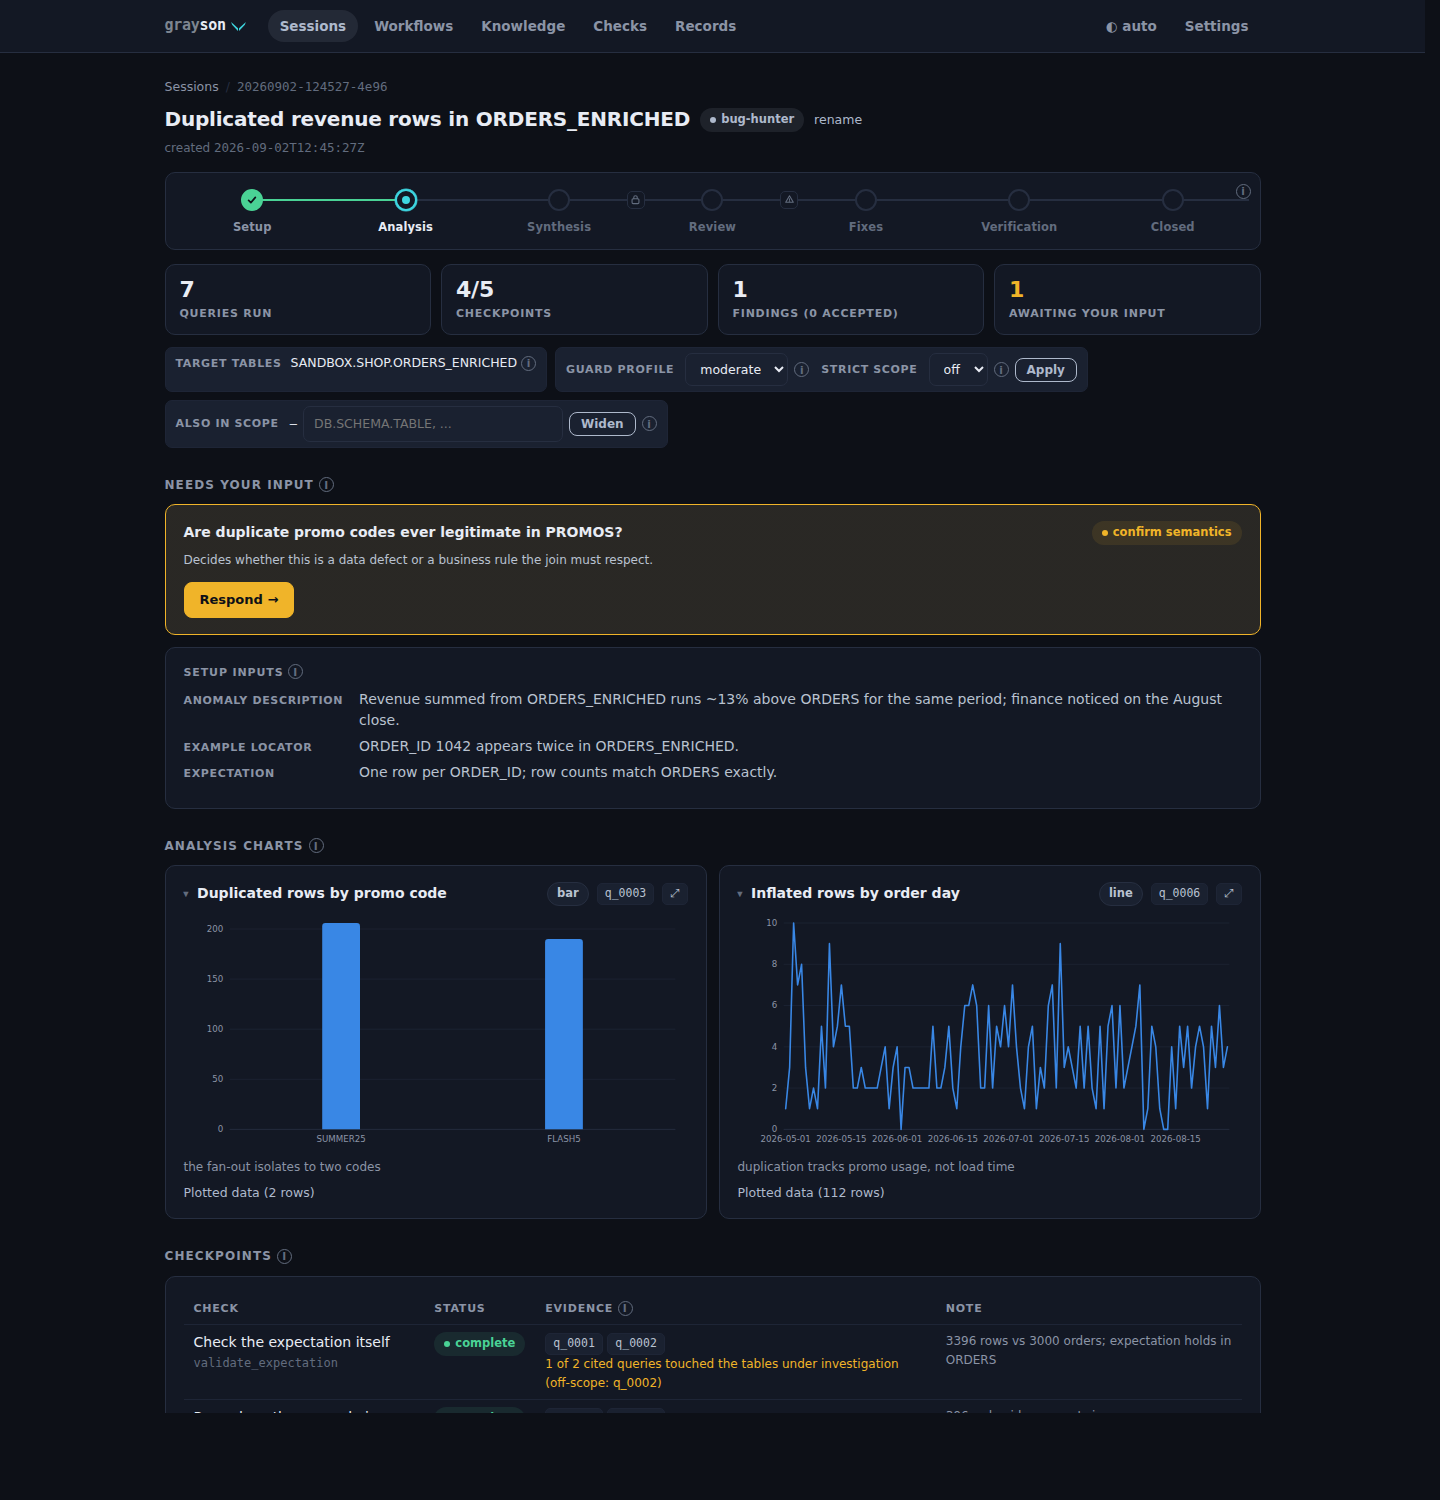
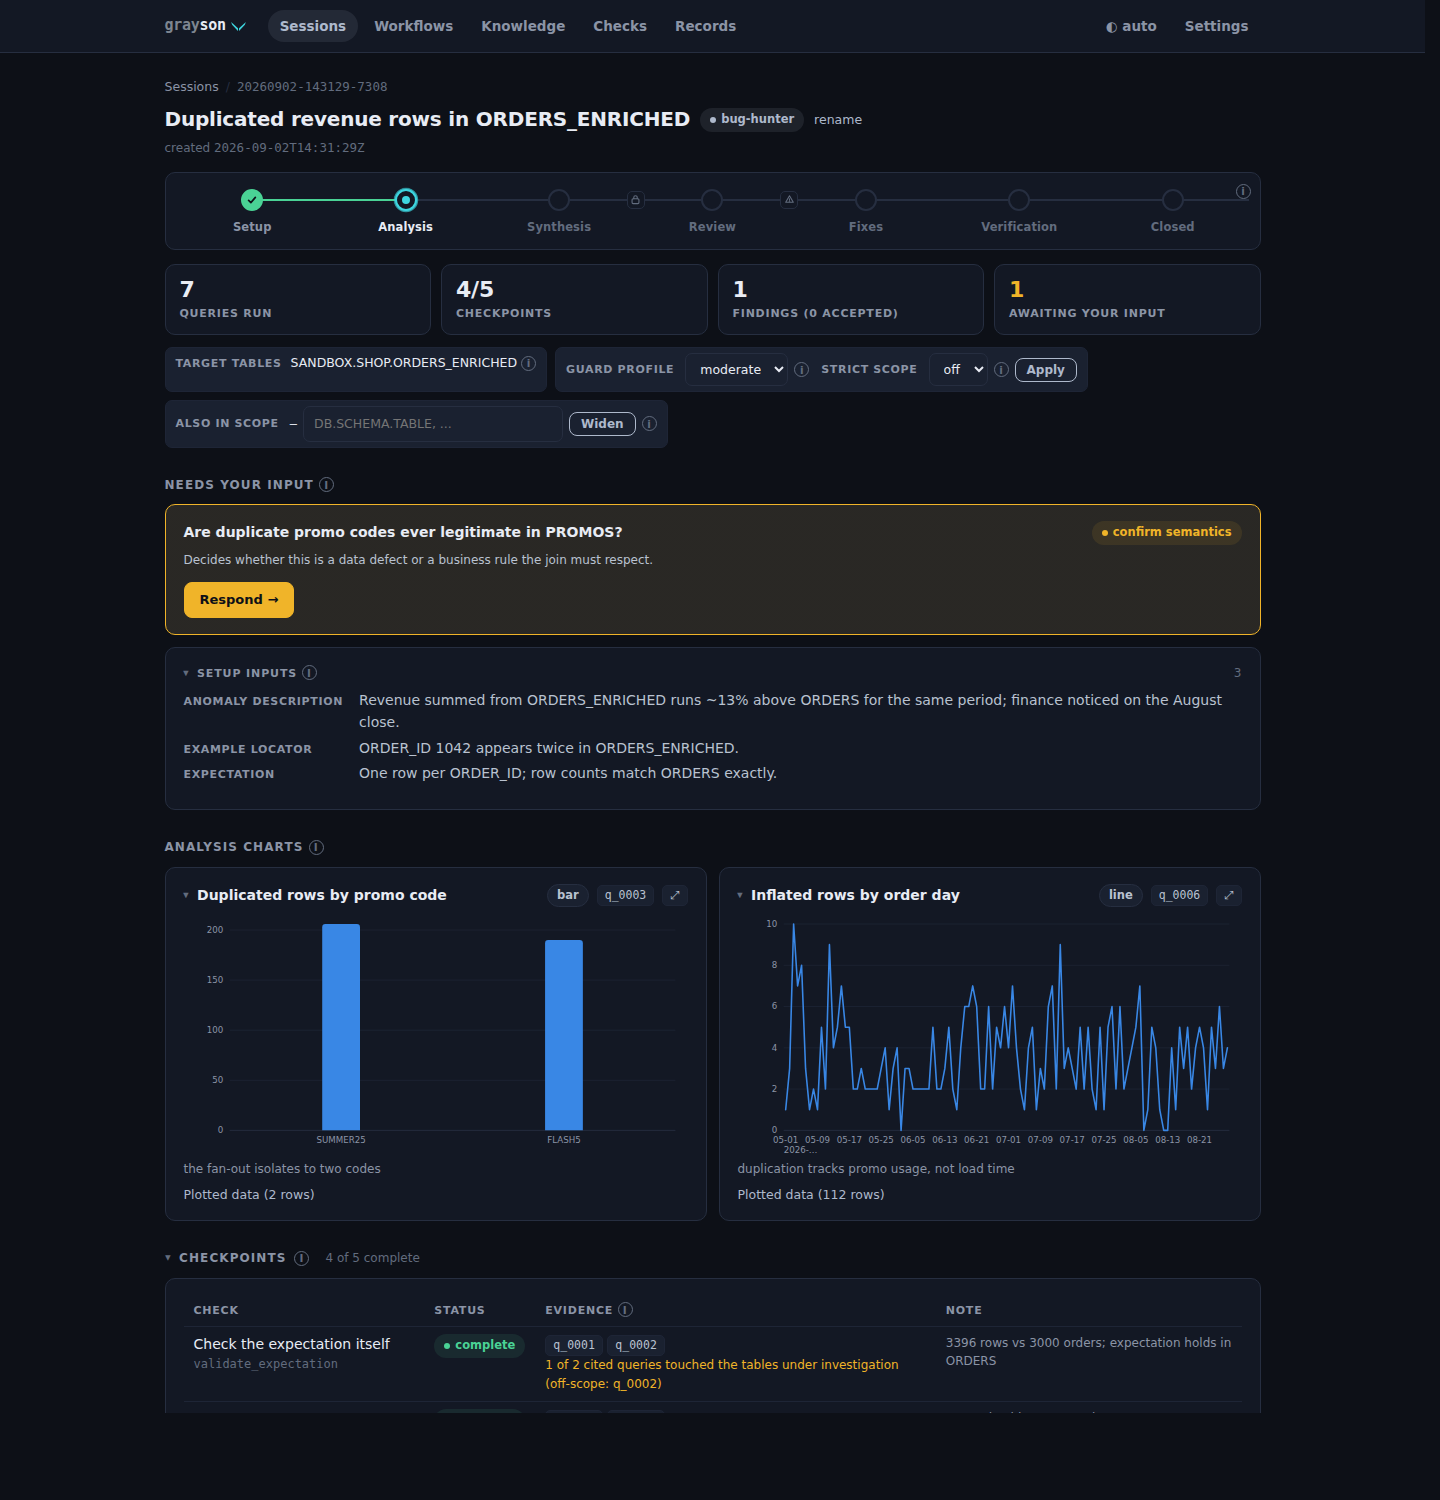
Session page: one action bar, folding sections, tiles that navigate
The four stacked folds at the foot of the session page (close, abandon,
set stage, delete) become one card with a segmented row of tabs. Every
option is visible at once and none is open until the user picks it; the
picked panel keeps the same form, confirmation prompt and gates as
before, and the pick is remembered across the live refresh. Idle, the
bar is about a quarter of the height the folds took.

Setup inputs and the checkpoints section fold at their headings, with
the fold remembered per session like the chart and finding tiles.

The stat tiles link to what they count: queries run to the query log,
checkpoints, findings and awaiting-your-input to their sections. A jump
unfolds a collapsed target (or any collapsed ancestor) first, scrolls
it clear of the sticky header and lights it briefly. The hash is not
kept, so the live refresh does not jump back; the same handler now
serves the "superseded by" links between findings.

Claude-Session: https://claude.ai/code/session_01TptRa2r119ZPVfkNQba6Qv

diff --git a/src/grayson/ui/templates/base.html b/src/grayson/ui/templates/base.html
@@ -124,17 +124,29 @@ a.card:hover { text-decoration: none; border-color: var(--muted); transform: tra
   grid-template-columns: repeat(auto-fill, minmax(400px, 1fr)); }
 /* a lone chart stays a tile, not a banner */
 .chartcard { margin-bottom: 0; max-width: 640px; }
-details.chartcard > summary.chartsum, details.findcard > summary.chartsum {
+details.chartcard > summary.chartsum, details.findcard > summary.chartsum,
+details.foldcard > summary.chartsum {
   cursor: pointer; list-style: none;
   display: flex; align-items: center; gap: 8px; user-select: none; flex-wrap: wrap; }
 details.chartcard > summary.chartsum::-webkit-details-marker,
-details.findcard > summary.chartsum::-webkit-details-marker { display: none; }
+details.findcard > summary.chartsum::-webkit-details-marker,
+details.foldcard > summary.chartsum::-webkit-details-marker { display: none; }
 .chartsum .c-caret { color: var(--faint); font-size: 11px; flex: none;
   transition: transform .15s; }
 details.chartcard[open] > .chartsum .c-caret,
-details.findcard[open] > .chartsum .c-caret { transform: rotate(90deg); }
-details.chartcard:not([open]):hover, details.findcard:not([open]):hover {
-  border-color: var(--muted); }
+details.findcard[open] > .chartsum .c-caret,
+details.foldcard[open] > .chartsum .c-caret { transform: rotate(90deg); }
+details.chartcard:not([open]):hover, details.findcard:not([open]):hover,
+details.foldcard:not([open]):hover { border-color: var(--muted); }
+/* a whole section folds at its heading: the h2 is the summary */
+details.section > summary { list-style: none; cursor: pointer; user-select: none; }
+details.section > summary::-webkit-details-marker { display: none; }
+details.section > summary > h2 { display: flex; align-items: center; gap: 8px; }
+details.section > summary > h2::before { content: "▸"; color: var(--faint);
+  font-size: 11px; transition: transform .15s; }
+details.section[open] > summary > h2::before { transform: rotate(90deg); }
+details.section > summary:hover > h2 { color: var(--ink); }
+details.section:not([open]) { margin-bottom: 12px; }
 details.findcard.superseded { opacity: .62; }
 details.findcard.superseded[open] { opacity: .85; }
 @keyframes chart-in {
@@ -157,6 +169,22 @@ details.findcard.superseded[open] { opacity: .85; }
 .tile .num.attn { color: var(--attn); } .tile .num.ok { color: var(--ok); }
 .tile .lbl { font-size: 11px; font-weight: 600; color: var(--muted);
   text-transform: uppercase; letter-spacing: .07em; margin-top: 2px; }
+/* a tile that counts a section is a link to it */
+a.tile { color: inherit; display: block; position: relative;
+  transition: border-color .15s, transform .15s, box-shadow .15s; }
+a.tile:hover, a.tile:focus-visible { text-decoration: none; border-color: var(--muted);
+  transform: translateY(-1px); box-shadow: 0 6px 18px rgba(0, 0, 0, .10); }
+a.tile::after { content: "↓"; position: absolute; top: 10px; right: 12px;
+  color: var(--faint); font-size: 12px; opacity: 0; transition: opacity .15s; }
+a.tile:hover::after, a.tile:focus-visible::after { opacity: 1; }
+/* the landing spot of an in-page jump: clear of the sticky header, and lit
+   for a moment so the eye finds it */
+h2[id], details[id], .card[id] { scroll-margin-top: 66px; }
+.spot { animation: spot 1.6s ease-out; border-radius: var(--radius); }
+@keyframes spot {
+  0%, 40% { outline: 2px solid var(--act); outline-offset: 6px; }
+  100% { outline: 2px solid transparent; outline-offset: 6px; }
+}
 
 /* ---- badges ---------------------------------------------------------- */
 .badge { display: inline-flex; align-items: center; gap: 5px; padding: 2px 9px;
@@ -226,6 +254,28 @@ details.fold > summary:hover { color: var(--ink); }
 details.fold > .fold-body { padding: 2px 18px 14px; border-top: 1px solid var(--border-soft); }
 details.inlinefold > summary { cursor: pointer; color: var(--act); font-size: 12.5px;
   list-style: none; user-select: none; }
+
+/* ---- session action bar ------------------------------------------------
+   Every way a session ends (or is moved by hand) sits on one row as a tab.
+   Nothing is hidden and nothing is open until the user picks one; the picked
+   panel carries the form, its confirmation and its gates. */
+.actions { padding: 12px 18px; }
+.actionhead { gap: 12px; align-items: center; flex-wrap: wrap; }
+.seg { display: inline-flex; border: 1px solid var(--border); border-radius: 8px;
+  background: var(--panel2); padding: 2px; gap: 2px; position: relative; }
+.seg .seg-r { position: absolute; opacity: 0; width: 0; height: 0; pointer-events: none; }
+.seg-b { padding: 4px 12px; border-radius: 6px; font-size: 12.5px; font-weight: 600;
+  color: var(--muted); cursor: pointer; user-select: none;
+  transition: background .12s, color .12s, box-shadow .12s; }
+.seg-b:hover { color: var(--ink); }
+.seg-b.on { background: var(--panel); color: var(--act); box-shadow: 0 1px 2px rgba(0, 0, 0, .12); }
+.seg-b.danger:hover, .seg-b.danger.on { color: var(--bad); }
+.seg .seg-r:focus-visible + .seg-b { outline: 2px solid var(--act); outline-offset: 1px; }
+.seg-cancel { margin-left: auto; }
+.seg-cancel[hidden], .seg-hint[hidden] { display: none; }
+.actpanel { border-top: 1px solid var(--border-soft); margin-top: 12px; padding-top: 10px;
+  animation: fade-down .2s ease-out both; }
+.acttitle { font-weight: 600; font-size: 13px; color: var(--ink-2); }
 details.inlinefold > summary::-webkit-details-marker { display: none; }
 details.opening > :not(summary) { animation: fade-down .2s ease-out both; }
 @keyframes fade-down { from { opacity: 0; transform: translateY(-4px); } }
@@ -632,9 +682,9 @@ document.addEventListener("toggle", function (e) {
   }
 })();
 
-/* Collapsible tiles (charts, findings): the server opens the newest few; a
-   manual toggle is remembered per tile so the 10s live refresh doesn't fight
-   the user. */
+/* Collapsible tiles (charts, findings, sections): the server opens the newest
+   few; a manual toggle is remembered per tile so the 10s live refresh doesn't
+   fight the user. */
 (function () {
   var cards = document.querySelectorAll("details[data-fold]");
   if (!cards.length) return;
@@ -650,6 +700,72 @@ document.addEventListener("toggle", function (e) {
     });
   });
 })();
+/* In-page jumps (the stat tiles, "superseded by" links): the target unfolds
+   first if it or any ancestor is collapsed, then the page scrolls to it and
+   lights it for a moment. The hash is not kept, so the live refresh does not
+   jump back; a hash arriving from outside is honoured once, then dropped. */
+(function () {
+  function unfold(el) {
+    for (var d = el.closest("details"); d; d = d.parentElement && d.parentElement.closest("details")) {
+      if (!d.open) d.open = true;
+    }
+  }
+  function spot(el) {
+    el.classList.remove("spot"); void el.offsetWidth; el.classList.add("spot");
+    setTimeout(function () { el.classList.remove("spot"); }, 1700);
+  }
+  function jump(id) {
+    var el = id && document.getElementById(id);
+    if (!el) return false;
+    unfold(el);
+    el.scrollIntoView({ behavior: "smooth", block: "start" });
+    spot(el);
+    return true;
+  }
+  document.addEventListener("click", function (e) {
+    var a = e.target.closest && e.target.closest('a[href^="#"]');
+    if (!a || a.getAttribute("href").length < 2) return;
+    if (jump(decodeURIComponent(a.getAttribute("href").slice(1)))) e.preventDefault();
+  });
+  if (location.hash.length > 1) {
+    var el = document.getElementById(decodeURIComponent(location.hash.slice(1)));
+    if (el) { unfold(el); spot(el); }
+    if (history.replaceState) history.replaceState(null, "", location.pathname + location.search);
+  }
+})();
+
+/* Session action bar: the picked tab shows its panel; the pick is remembered
+   per page so the live refresh brings the same panel back. */
+(function () {
+  var bar = document.querySelector(".actions");
+  if (!bar) return;
+  var radios = bar.querySelectorAll(".seg-r");
+  var cancel = bar.querySelector(".seg-cancel");
+  var hint = bar.querySelector(".seg-hint");
+  var key = "grayson_act_" + location.pathname;
+  function render() {
+    var on = null;
+    radios.forEach(function (r) {
+      var lbl = bar.querySelector('label[for="' + r.id + '"]');
+      if (lbl) { lbl.classList.toggle("on", r.checked); lbl.setAttribute("aria-selected", r.checked); }
+      if (r.checked) on = r.value;
+    });
+    bar.querySelectorAll(".actpanel").forEach(function (p) { p.hidden = p.dataset.act !== on; });
+    if (cancel) cancel.hidden = !on;
+    if (hint) hint.hidden = !!on;
+    try { if (on) localStorage.setItem(key, on); else localStorage.removeItem(key); } catch (e) {}
+  }
+  radios.forEach(function (r) { r.addEventListener("change", render); });
+  if (cancel) cancel.addEventListener("click", function () {
+    radios.forEach(function (r) { r.checked = false; });
+    render();
+  });
+  var saved = null;
+  try { saved = localStorage.getItem(key); } catch (e) {}
+  radios.forEach(function (r) { if (r.value === saved) r.checked = true; });
+  render();
+})();
+
 </script>
 </body>
 </html>

diff --git a/src/grayson/ui/templates/session.html b/src/grayson/ui/templates/session.html
@@ -33,17 +33,23 @@
 
 {{ stage_timeline(s, stages, readiness, findings) }}
 
+{# each stat tile is a link to the section it counts; the base script scrolls
+   there and unfolds it first if it is collapsed #}
+{% set open_iv = interventions | selectattr("status","equalto","open") | list %}
 <div class="tiles">
-  <div class="tile"><div class="num">{{ s.queries_executed }}</div><div class="lbl">Queries run</div></div>
-  <div class="tile">
+  <a class="tile" href="#queries" title="Go to the query log"><div class="num">{{ s.queries_executed }}</div><div class="lbl">Queries run</div></a>
+  <a class="tile" href="#checkpoints" title="Go to the checkpoints">
     <div class="num {{ 'ok' if readiness.checks_complete }}">{{ checkpoints | selectattr("status","equalto","complete") | list | length }}/{{ checkpoints | length }}</div>
     <div class="lbl">Checkpoints{% if readiness.waived_checks %},
-      {{ readiness.waived_checks | length }} waived{% endif %}</div></div>
-  <div class="tile"><div class="num">{{ findings | length }}</div>
-    <div class="lbl">Findings ({{ findings | selectattr("accepted") | rejectattr("superseded_by") | list | length }} accepted)</div></div>
-  {% set open_iv = interventions | selectattr("status","equalto","open") | list %}
-  <div class="tile"><div class="num {{ 'attn' if open_iv }}">{{ open_iv | length }}</div>
-    <div class="lbl">Awaiting your input</div></div>
+      {{ readiness.waived_checks | length }} waived{% endif %}</div></a>
+  <a class="tile" href="#findings" title="Go to the findings"><div class="num">{{ findings | length }}</div>
+    <div class="lbl">Findings ({{ findings | selectattr("accepted") | rejectattr("superseded_by") | list | length }} accepted)</div></a>
+  {% if open_iv %}
+  <a class="tile" href="#awaiting" title="Go to the open questions"><div class="num attn">{{ open_iv | length }}</div>
+    <div class="lbl">Awaiting your input</div></a>
+  {% else %}
+  <div class="tile"><div class="num">0</div><div class="lbl">Awaiting your input</div></div>
+  {% endif %}
 </div>
 
 {% if s.stage == "closed" and s.outcome %}
@@ -111,7 +117,7 @@
 </div>
 
 {% if open_iv %}
-<h2>Needs your input {{ help("interventions") }}</h2>
+<h2 id="awaiting">Needs your input {{ help("interventions") }}</h2>
 {% for iv in open_iv %}
 <div class="card attn">
   <div class="row split">
@@ -126,14 +132,20 @@
 {% endif %}
 
 {% if setup_inputs %}
-<div class="card">
-  <div class="overline" style="margin-bottom: 6px;">Setup inputs {{ help("setup_inputs") }}</div>
-  <dl class="props">
+{# what the session was set up with: read once, then folded away. The fold is
+   remembered across the live refresh like the chart and finding tiles. #}
+<details class="card foldcard" id="setup" data-fold="setup" open>
+  <summary class="chartsum">
+    <span class="c-caret">▸</span>
+    <span class="overline">Setup inputs {{ help("setup_inputs") }}</span>
+    <span class="faint small" style="margin-left: auto;">{{ setup_inputs | length }}</span>
+  </summary>
+  <dl class="props" style="margin-top: 8px;">
     {% for key, value in setup_inputs.items() %}
     <dt>{{ key | replace("_", " ") }}</dt><dd>{{ value }}</dd>
     {% endfor %}
   </dl>
-</div>
+</details>
 {% endif %}
 
 {% if charts %}
@@ -183,7 +195,9 @@
 </div>
 {% endif %}
 
-<h2>Checkpoints {{ help("checkpoints") }}</h2>
+<details class="section" id="checkpoints" data-fold="checkpoints" open>
+<summary><h2>Checkpoints {{ help("checkpoints") }}
+  <span class="faint" style="font-weight: 500; margin-left: 8px; text-transform: none; letter-spacing: 0;">{{ checkpoints | selectattr("status","equalto","complete") | list | length }} of {{ checkpoints | length }} complete{% if readiness.waived_checks %}, {{ readiness.waived_checks | length }} waived{% endif %}</span></h2></summary>
 <div class="card scroll">
 <table>
 <tr><th>Check</th><th>Status</th><th>Evidence {{ help("evidence") }}</th><th>Note</th></tr>
@@ -234,8 +248,9 @@
   </div>
 </div>
 {% endif %}
+</details>
 
-<h2>Findings {{ help("findings") }} <span class="faint" style="font-weight: 500; margin-left: 8px;">severity scale {{ help("severity") }}</span></h2>
+<h2 id="findings">Findings {{ help("findings") }} <span class="faint" style="font-weight: 500; margin-left: 8px;">severity scale {{ help("severity") }}</span></h2>
 {% for f in findings %}
 {# newest three stay open; older and superseded findings collapse to their
    title row. A manual toggle is remembered per finding in localStorage. #}
@@ -357,7 +372,7 @@
 {% endfor %}
 {% endif %}
 
-<h2>Query log {{ help("guard") }}</h2>
+<h2 id="queries">Query log {{ help("guard") }}</h2>
 <div class="card scroll" style="max-height: 360px; overflow-y: auto;">
 <table>
 {% set has_worker = queries | selectattr("worker") | list | length > 0 %}
@@ -391,11 +406,33 @@
   </div>
 </details>
 
-{% if s.stage != "closed" %}
-<details class="fold">
-  <summary>Close this session</summary>
-  <div class="fold-body">
-    <div class="muted small" style="margin: 8px 0 10px;">
+{# Session actions: one bar, one panel. Every ending is a tab the user picks
+   on purpose; the chosen panel keeps the same form, confirmation and gates as
+   before. The pick is remembered across the live refresh (base script). #}
+{% set open_session = s.stage != "closed" %}
+<div class="card actions" id="actions">
+  <div class="row actionhead">
+    <span class="overline">Session actions</span>
+    <div class="seg" role="tablist" aria-label="Session actions">
+      {% if open_session %}
+      <input type="radio" class="seg-r" name="sact" id="sact-close" value="close">
+      <label class="seg-b" for="sact-close" role="tab" title="Record the outcome and publish the report">Close</label>
+      <input type="radio" class="seg-r" name="sact" id="sact-abandon" value="abandon">
+      <label class="seg-b" for="sact-abandon" role="tab" title="End without a result">Abandon</label>
+      <input type="radio" class="seg-r" name="sact" id="sact-stage" value="stage">
+      <label class="seg-b" for="sact-stage" role="tab" title="Move the stage by hand">Set stage</label>
+      {% endif %}
+      <input type="radio" class="seg-r" name="sact" id="sact-delete" value="delete">
+      <label class="seg-b danger" for="sact-delete" role="tab" title="Remove the session from this workspace">Delete</label>
+    </div>
+    <span class="muted small seg-hint">Pick one to see what it does. Nothing happens until you confirm.</span>
+    <button type="button" class="btn ghost sm seg-cancel" hidden title="Put the panel away">✕</button>
+  </div>
+
+  {% if open_session %}
+  <div class="actpanel" data-act="close" role="tabpanel" hidden>
+    <div class="acttitle">Close this session</div>
+    <div class="muted small" style="margin: 4px 0 10px;">
       Closes on accepted findings, or clean if there are none. Refused while required
       checkpoints are open.
     </div>
@@ -406,12 +443,10 @@
       <button class="btn sm" type="submit">Close session</button>
     </form>
   </div>
-</details>
 
-<details class="fold">
-  <summary>Abandon this session</summary>
-  <div class="fold-body">
-    <div class="muted small" style="margin: 8px 0 10px;">
+  <div class="actpanel" data-act="abandon" role="tabpanel" hidden>
+    <div class="acttitle">Abandon this session</div>
+    <div class="muted small" style="margin: 4px 0 10px;">
       Ends a broken or mistaken session without a result. Skips the gates: recorded as
       <i>abandoned</i> with your reason, open questions cancelled, nothing published.
     </div>
@@ -422,12 +457,10 @@
       <button class="btn danger sm" type="submit">Abandon session</button>
     </form>
   </div>
-</details>
 
-<details class="fold">
-  <summary>Set stage manually</summary>
-  <div class="fold-body">
-    <div class="muted small" style="margin: 8px 0 10px;">
+  <div class="actpanel" data-act="stage" role="tabpanel" hidden>
+    <div class="acttitle">Set stage manually</div>
+    <div class="muted small" style="margin: 4px 0 10px;">
       Moves the stage directly; the agent is not told. Gates apply unless forced (audited).
       {{ help("stage") }}
     </div>
@@ -440,13 +473,11 @@
       <button class="btn secondary sm" type="submit">Set stage</button>
     </form>
   </div>
-</details>
-{% endif %}
+  {% endif %}
 
-<details class="fold">
-  <summary>Delete this session</summary>
-  <div class="fold-body">
-    <div class="muted small" style="margin: 8px 0 10px;">
+  <div class="actpanel" data-act="delete" role="tabpanel" hidden>
+    <div class="acttitle">Delete this session</div>
+    <div class="muted small" style="margin: 4px 0 10px;">
       Removes the session and everything under it from this workspace. Not undoable.
       {% if published.count %}
       It published <b>{{ published.count }}</b> record{{ "s" if published.count != 1 }}
@@ -467,7 +498,7 @@
       <button class="btn danger sm" type="submit">Delete session</button>
     </form>
   </div>
-</details>
+</div>
 <dialog id="chart-lightbox" class="lightbox" aria-label="Chart, enlarged">
   <div class="row split mb-2">
     <b id="lb-title"></b>

diff --git a/docs/SESSIONS.md b/docs/SESSIONS.md
@@ -108,8 +108,8 @@ is **abandoned**: the third ending, and the honest label for "no result". It
 skips the gates on purpose, so it never reads as clean or as findings; the
 reason is recorded, open interventions are cancelled so nothing sits in
 "awaiting your input", and nothing publishes to the library. The console
-offers it beside *Close this session*; the closed list shows it as
-`abandoned`.
+offers it as the *Abandon* tab of the session actions bar at the foot of the
+page, beside *Close*; the closed list shows it as `abandoned`.
 
 ```bash
 grayson session abandon <sid> --reason "wrong target table; restarted as 2026…"
@@ -119,8 +119,8 @@ grayson session abandon <sid> --reason "wrong target table; restarted as 2026…
 trail, cache, charts. Records the session already published to the library
 (accepted findings, verified fixes, its report) are a separate matter: they
 stay unless you remove them too, which is the author's or a library admin's
-call ([LIBRARY.md](LIBRARY.md#removing-records)). The session page's *Delete
-this session* fold offers both together; from a terminal:
+call ([LIBRARY.md](LIBRARY.md#removing-records)). The *Delete* tab of the
+session actions bar offers both together; from a terminal:
 
 ```bash
 grayson session delete <sid> --yes             # the local session only
